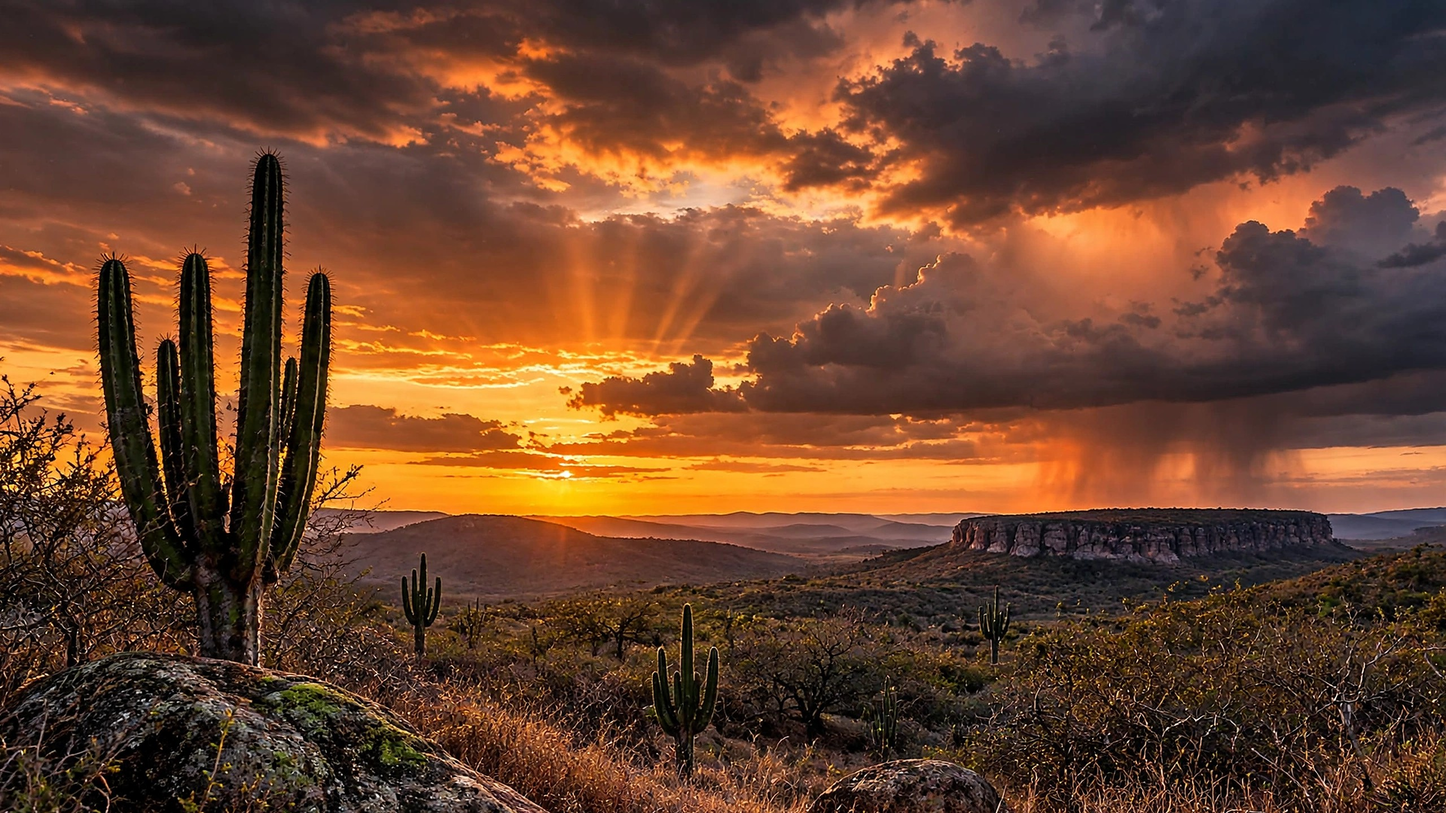
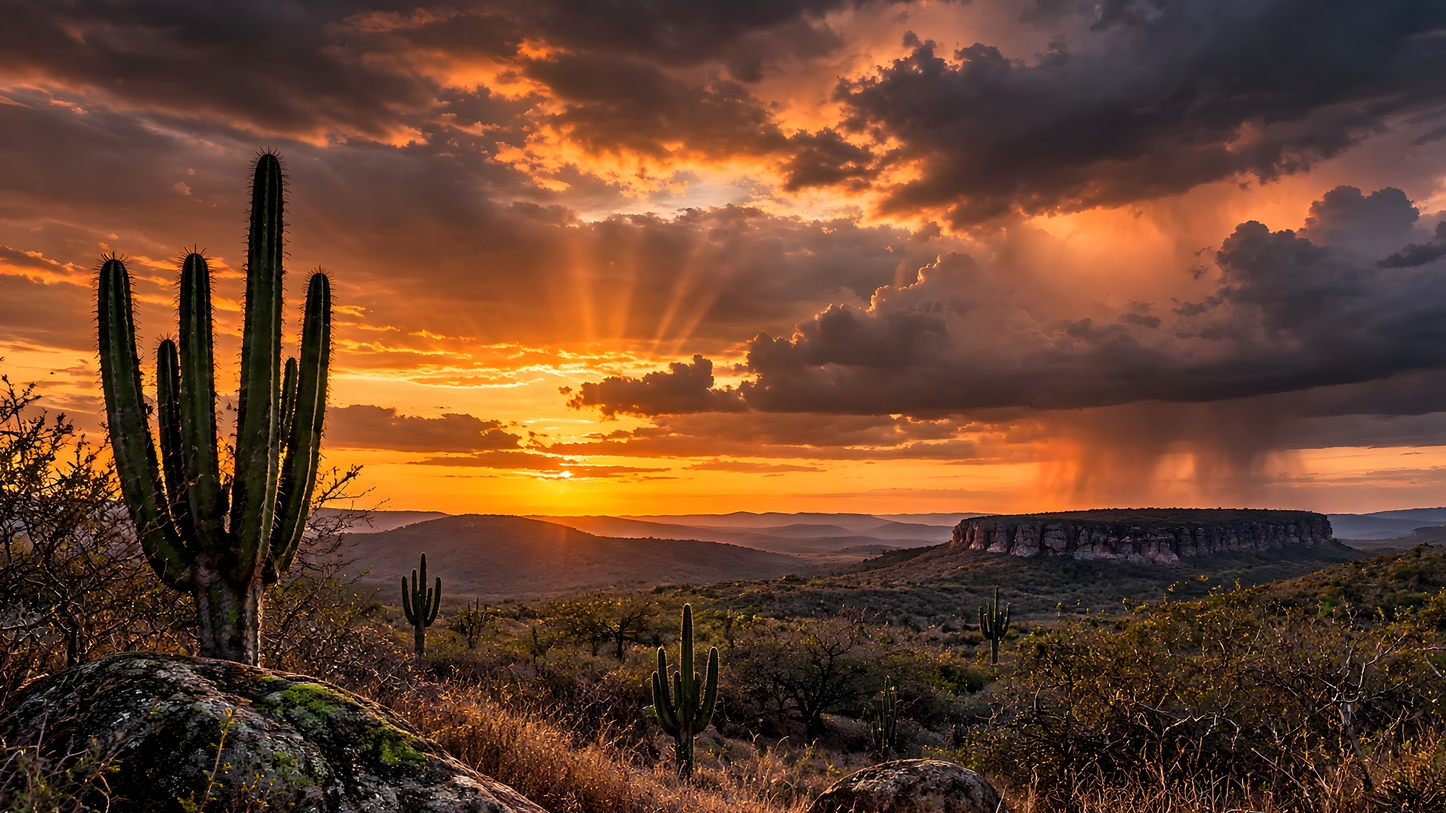
fix(papel-de-parede): fotos do Mandacaru nítidas em telas 2K e 4K
As 7 fotos vieram com ~2048 px em WebP comprimido e eram ampliadas com
Lanczos + nitidez: em 2560 px ficavam borradas, com blocos de compressão e
contornos claros nos cactos. Agora são ampliadas 4x com o Real-ESRGAN
(realesrgan-x4plus, pela placa de vídeo), que também limpa a compressão, e
depois só reduzidas. O fotos.py usa a versão ampliada quando existe e
documenta o passo. Pacote kalango-papeis-de-parede 2026.11.20-1.

diff --git a/assets/wallpapers/fotos.py b/assets/wallpapers/fotos.py
@@ -9,16 +9,28 @@ os nomes na tela em ``ui/theme.slint`` (``wallpaper-names``).
 
 O formato é lido pelo conteúdo, não pela extensão: as fotos do Sertão vieram
 como WebP com o nome terminado em ``.jpg``. Fotos que não são 16:9 são cortadas
-no meio; a ampliação é Lanczos com um pouco de nitidez (não inventa detalhe,
-só evita a imagem borrada nas telas grandes). Os metadados XMP da foto
-original são mantidos.
+no meio. Os metadados XMP da foto original são mantidos.
+
+**Fotos menores que 3840 px** (as do Sertão e da Chapada têm ~2048 px e vieram
+comprimidas) ficam borradas e com blocos se forem só ampliadas. Antes, amplie
+4× com o Real-ESRGAN (código aberto, roda na placa de vídeo pelo Vulkan), que
+também limpa a compressão, e passe a pasta com os PNG ampliados:
+
+    realesrgan-ncnn-vulkan -i "foto.png" -o "ampliadas/foto.png" -n realesrgan-x4plus
+
+(versão usada: realesrgan-ncnn-vulkan-20220424-ubuntu.zip, SHA-256
+e5aa6eb131234b87c0c51f82b89390f5e3e642b7b70f2b9bbe95b6a285a40c96). O script
+procura primeiro ``<nome sem extensão>.png`` na pasta (a ampliada) e depois o
+arquivo de origem. Daí para as resoluções finais é só redução (Lanczos), que
+fica nítida; a nitidez extra só entra quando ainda for preciso ampliar.
 
 Uso::
 
-    python3 assets/wallpapers/fotos.py PASTA_DAS_FOTOS
+    python3 assets/wallpapers/fotos.py PASTA_DAS_FOTOS_OU_AMPLIADAS [PASTA_DOS_ORIGINAIS]
 
-com a tabela ``FOTOS`` abaixo (arquivo de origem → nome do modelo).
-Precisa do Pillow.
+A segunda pasta só serve para copiar os metadados XMP dos originais.
+Tabela ``FOTOS`` abaixo: arquivo de origem → nome do modelo. Precisa do Pillow.
+Depois de gerar, suba a versão em ``distro/pacotes/gerar-deb-papeis.sh``.
 """
 
 import sys
@@ -70,15 +82,29 @@ def gravar(img: Image.Image, caminho: Path, xmp: bytes | None) -> None:
     img.save(caminho, "JPEG", quality=90, optimize=True, progressive=True, **extra)
 
 
+def fonte(pasta: Path, arquivo: str) -> Path:
+    """A versão ampliada (``<nome>.png``) se existir; senão o arquivo de origem."""
+    ampliada = pasta / (Path(arquivo).stem + ".png")
+    return ampliada if ampliada.exists() else pasta / arquivo
+
+
+def xmp_de(caminho: Path) -> bytes | None:
+    """Metadados XMP de uma imagem (o Real-ESRGAN não os copia)."""
+    if not caminho.exists():
+        return None
+    with Image.open(caminho) as img:
+        xmp = img.info.get("xmp")
+    return xmp.encode() if isinstance(xmp, str) else xmp
+
+
 def main() -> None:
-    if len(sys.argv) != 2:
+    if len(sys.argv) not in (2, 3):
         sys.exit(__doc__)
     origem = Path(sys.argv[1])
+    originais = Path(sys.argv[2]) if len(sys.argv) == 3 else origem
     for arquivo, modelo in FOTOS.items():
-        with Image.open(origem / arquivo) as foto:
-            xmp = foto.info.get("xmp")
-            if isinstance(xmp, str):
-                xmp = xmp.encode()
+        xmp = xmp_de(originais / arquivo) or xmp_de(origem / arquivo)
+        with Image.open(fonte(origem, arquivo)) as foto:
             img = recorte_16x9(foto.convert("RGB"))
         print(f"{arquivo} ({img.size[0]}x{img.size[1]}) -> {modelo}")
         for w, h in TAMANHOS:
